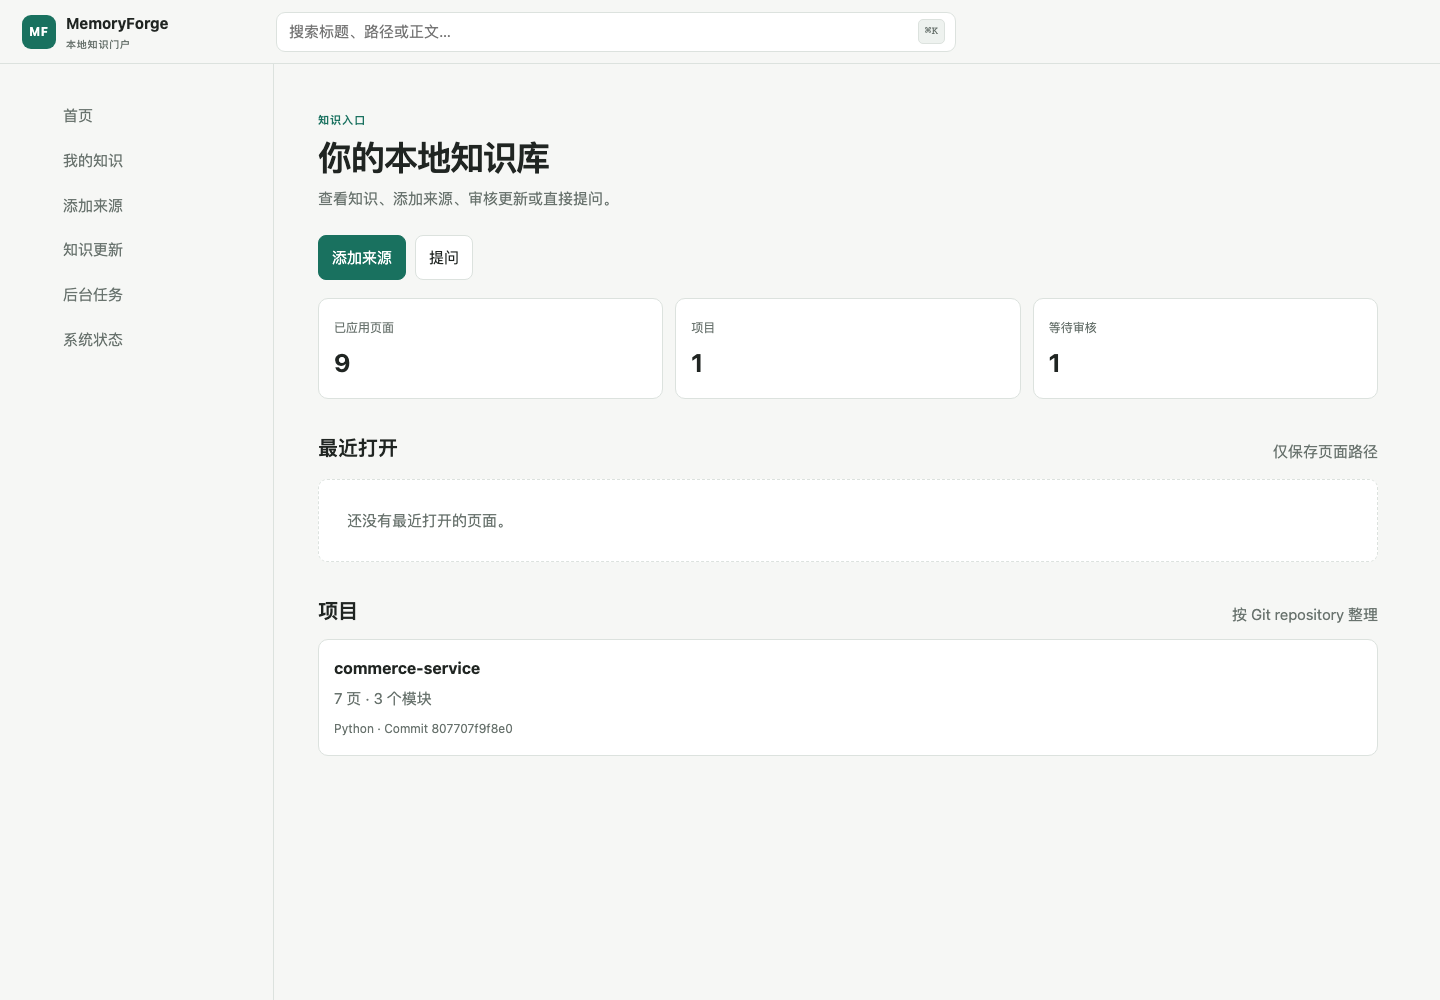
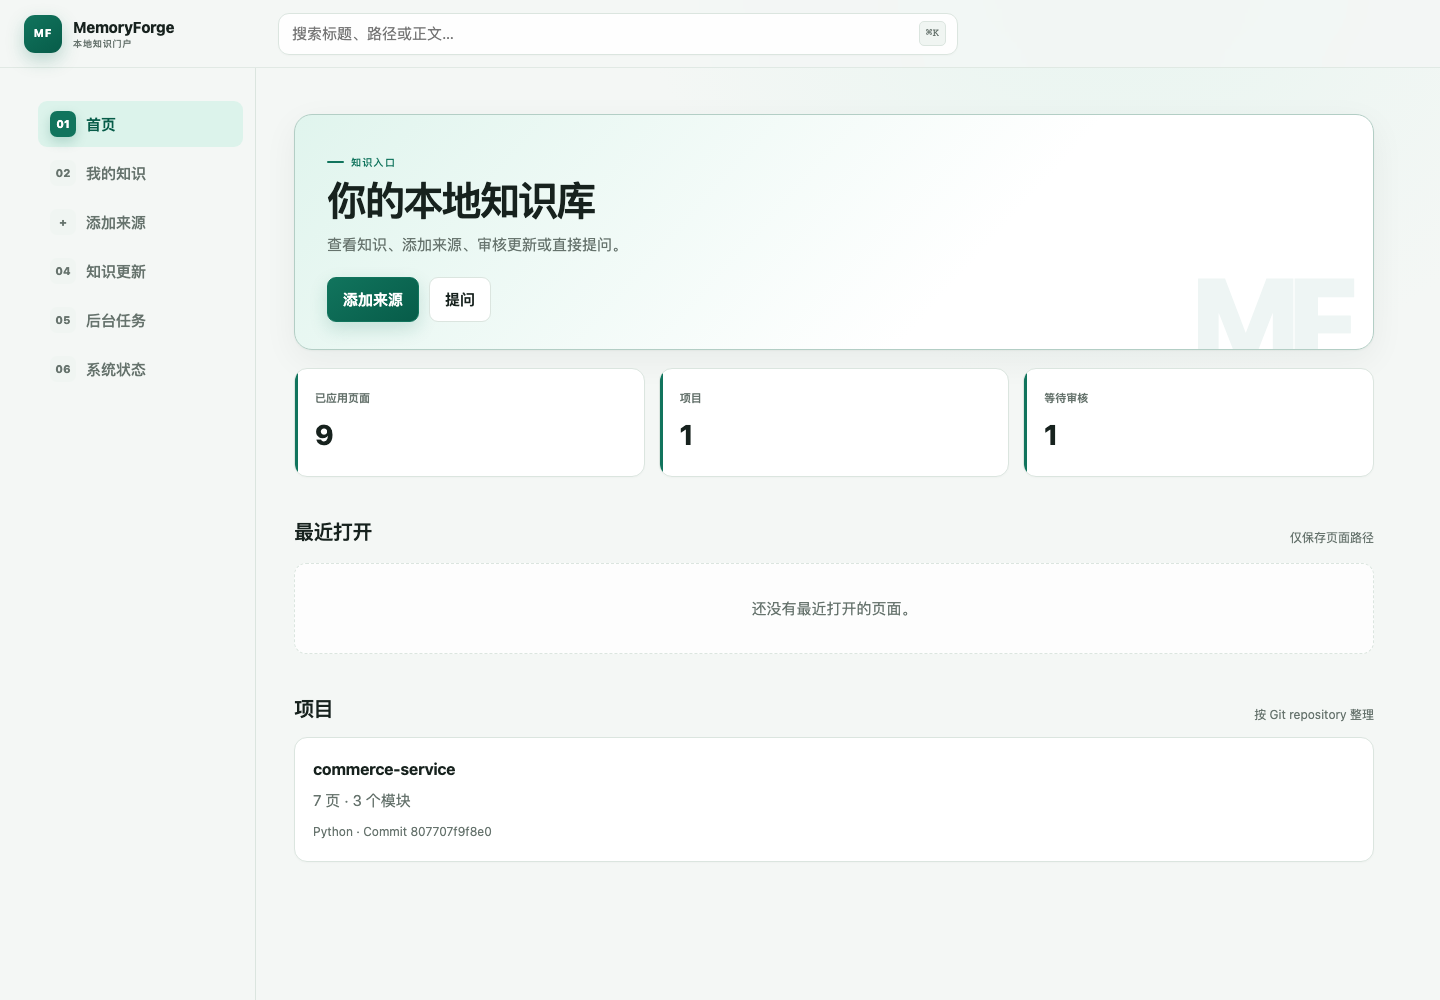
style: polish local knowledge portal

diff --git a/src/memoryforge/portal_assets.py b/src/memoryforge/portal_assets.py
@@ -38,49 +38,79 @@ INDEX_HTML = """<!doctype html>
 """
 
 APP_CSS = """
-:root{color-scheme:light;--bg:#f6f7f5;--panel:#fff;--soft:#eef2ef;--text:#202522;
---muted:#69736e;--line:#dce2de;--accent:#19715f;--accent-soft:#ddf2eb;--link:#315fbd;
---warn:#9a6700;--danger:#b42318;--code:#f3f5f4}
-@media(prefers-color-scheme:dark){:root{color-scheme:dark;--bg:#101311;--panel:#171b19;
---soft:#202622;--text:#e7ece9;--muted:#9aa59f;--line:#303833;--accent:#69cbb5;
---accent-soft:#183a32;--link:#9ab5ff;--warn:#e3b341;--danger:#ff9b92;--code:#0d100e}}
-*{box-sizing:border-box}[hidden]{display:none!important}html{scroll-behavior:smooth}body{margin:0;background:var(--bg);
-color:var(--text);font:15px/1.65 system-ui,-apple-system,BlinkMacSystemFont,"Segoe UI",sans-serif}
-button,input{font:inherit;color:inherit}a{color:var(--link)}button{cursor:pointer}
+:root{color-scheme:light;--bg:#f4f7f5;--panel:#fff;--soft:#f0f5f2;--text:#17221e;
+--muted:#66736d;--line:#dbe5df;--accent:#11745d;--accent-strong:#075c49;
+--accent-soft:#dcf3eb;--link:#2457a7;--warn:#956200;--danger:#b42318;--code:#f2f5f3;
+--shadow:0 1px 2px rgba(18,42,33,.04),0 10px 34px rgba(18,42,33,.055);
+--shadow-hover:0 2px 5px rgba(18,42,33,.06),0 18px 42px rgba(18,42,33,.1)}
+@media(prefers-color-scheme:dark){:root{color-scheme:dark;--bg:#0d1210;--panel:#151b18;
+--soft:#1c2621;--text:#e9f0ec;--muted:#9ba9a2;--line:#2c3933;--accent:#6bd0b5;
+--accent-strong:#8cdec8;--accent-soft:#163c31;--link:#9cbcff;--warn:#e3b341;
+--danger:#ff9b92;--code:#0b100e;--shadow:0 12px 34px rgba(0,0,0,.18);
+--shadow-hover:0 20px 48px rgba(0,0,0,.28)}}
+*{box-sizing:border-box}[hidden]{display:none!important}html{scroll-behavior:smooth}body{margin:0;
+background:radial-gradient(circle at 78% -10%,color-mix(in srgb,var(--accent-soft) 55%,transparent),transparent 31rem),var(--bg);
+color:var(--text);font:15px/1.65 system-ui,-apple-system,BlinkMacSystemFont,"Segoe UI",sans-serif;
+font-synthesis:none}button,input,select,textarea{font:inherit;color:inherit}a{color:var(--link)}
+button{cursor:pointer}a,button,input,select,textarea{transition:border-color .16s ease,box-shadow .16s ease,
+background-color .16s ease,color .16s ease,transform .16s ease}
 .sr-only{position:absolute;width:1px;height:1px;padding:0;margin:-1px;overflow:hidden;
 clip:rect(0,0,0,0);white-space:nowrap;border:0}
 .topbar{position:sticky;top:0;z-index:20;display:grid;grid-template-columns:230px minmax(260px,680px) auto;
-align-items:center;gap:24px;min-height:64px;padding:9px 22px;background:color-mix(in srgb,var(--bg) 91%,transparent);
-border-bottom:1px solid var(--line);backdrop-filter:blur(16px)}
-.brand{display:flex;align-items:center;gap:10px;color:var(--text);font-weight:700;text-decoration:none}
-.brand-mark{display:grid;width:34px;height:34px;place-items:center;color:#fff;background:var(--accent);
-border-radius:9px;font-size:12px;letter-spacing:.06em}.brand small{display:block;color:var(--muted);
-font-size:10px;font-weight:500;letter-spacing:.08em;text-transform:uppercase}
-.search{display:flex;align-items:center;height:40px;padding:0 10px;background:var(--panel);
-border:1px solid var(--line);border-radius:9px}.search:focus-within{border-color:var(--accent)}
+align-items:center;gap:24px;min-height:68px;padding:10px 24px;background:color-mix(in srgb,var(--bg) 82%,transparent);
+border-bottom:1px solid color-mix(in srgb,var(--line) 78%,transparent);backdrop-filter:blur(20px) saturate(1.25)}
+.brand{display:flex;align-items:center;gap:11px;color:var(--text);font-weight:760;text-decoration:none;
+letter-spacing:-.015em}.brand-mark{display:grid;width:38px;height:38px;place-items:center;color:#fff;
+background:linear-gradient(145deg,var(--accent),var(--accent-strong));border-radius:11px;font-size:11px;
+letter-spacing:.08em;box-shadow:0 7px 18px color-mix(in srgb,var(--accent) 25%,transparent)}
+.brand small{display:block;margin-top:-2px;color:var(--muted);font-size:9px;font-weight:650;
+letter-spacing:.1em;text-transform:uppercase}
+.search{display:flex;align-items:center;height:42px;padding:0 11px;background:color-mix(in srgb,var(--panel) 92%,transparent);
+border:1px solid var(--line);border-radius:11px;box-shadow:0 1px 2px rgba(0,0,0,.025)}
+.search:focus-within{border-color:var(--accent);box-shadow:0 0 0 3px color-mix(in srgb,var(--accent) 14%,transparent)}
 .search input{flex:1;min-width:0;background:transparent;border:0;outline:0}
 kbd{padding:2px 6px;color:var(--muted);background:var(--soft);border:1px solid var(--line);
 border-radius:5px;font-size:11px}.tool{display:none;padding:7px 10px;background:var(--panel);
 border:1px solid var(--line);border-radius:8px}
-.shell{display:grid;grid-template-columns:230px minmax(0,1060px);gap:44px;max-width:1400px;margin:auto;padding:0 24px}
-.primary-nav{position:sticky;top:64px;align-self:start;height:calc(100vh - 64px);padding:28px 8px;
-border-right:1px solid var(--line)}.primary-nav a{display:block;margin:2px 0;padding:9px 11px;
-color:var(--muted);border-radius:7px;text-decoration:none}.primary-nav a:hover,.primary-nav a:focus-visible{
-color:var(--accent);background:var(--accent-soft);outline:0}
-#app{min-width:0;padding:42px 0 80px;outline:0}.page-head{margin-bottom:25px}.eyebrow{color:var(--accent);
-font-size:11px;font-weight:700;letter-spacing:.1em}.page-head h1{margin:6px 0 8px;font-size:34px;
-line-height:1.2;letter-spacing:-.03em}.page-head p{max-width:760px;margin:0;color:var(--muted)}
-.grid{display:grid;grid-template-columns:repeat(auto-fit,minmax(210px,1fr));gap:12px}
-.card{min-width:0;padding:15px;background:var(--panel);border:1px solid var(--line);border-radius:10px}
-a.card{display:block;color:var(--text);text-decoration:none}a.card:hover{border-color:var(--accent);
-box-shadow:0 7px 22px color-mix(in srgb,var(--text) 8%,transparent)}.card h2,.card h3{margin:0 0 5px;
-font-size:16px}.card p{margin:4px 0;color:var(--muted)}.metric{display:block;margin-top:3px;
-font-size:25px;font-weight:650}.meta{color:var(--muted);font-size:12px}.section{margin-top:32px}
+.shell{display:grid;grid-template-columns:218px minmax(0,1080px);gap:38px;max-width:1420px;margin:auto;padding:0 28px}
+.primary-nav{position:sticky;top:68px;align-self:start;height:calc(100vh - 68px);padding:30px 12px 28px 0;
+border-right:1px solid var(--line)}.primary-nav a{display:flex;align-items:center;gap:10px;margin:3px 0;
+padding:10px 12px;color:var(--muted);border-radius:9px;text-decoration:none;font-weight:570}
+.primary-nav a::before{display:grid;width:24px;height:24px;place-items:center;color:var(--muted);
+background:var(--soft);border:1px solid transparent;border-radius:7px;font-size:11px;font-weight:800}
+.primary-nav a[href="#home"]::before{content:"01"}.primary-nav a[href="#knowledge"]::before{content:"02"}
+.primary-nav a[href="#add-source"]::before{content:"+"}.primary-nav a[href="#updates"]::before{content:"04"}
+.primary-nav a[href="#jobs"]::before{content:"05"}.primary-nav a[href="#system"]::before{content:"06"}
+.primary-nav a:hover,.primary-nav a:focus-visible{color:var(--accent);background:var(--accent-soft);outline:0}
+.primary-nav a[aria-current=page]{color:var(--accent-strong);background:var(--accent-soft);font-weight:720}
+.primary-nav a[aria-current=page]::before{color:#fff;background:var(--accent);box-shadow:0 5px 12px color-mix(in srgb,var(--accent) 22%,transparent)}
+#app{min-width:0;padding:46px 0 88px;outline:0}.page-head{margin-bottom:28px}.eyebrow{display:inline-flex;
+align-items:center;gap:7px;color:var(--accent);font-size:10px;font-weight:800;letter-spacing:.13em;
+text-transform:uppercase}.eyebrow::before{content:"";width:17px;height:2px;background:var(--accent);border-radius:2px}
+.page-head h1{margin:7px 0 9px;font-size:36px;line-height:1.15;letter-spacing:-.045em}
+.page-head p{max-width:720px;margin:0;color:var(--muted);font-size:15px}
+.hero{position:relative;overflow:hidden;margin-bottom:18px;padding:30px 32px 27px;
+background:linear-gradient(132deg,color-mix(in srgb,var(--accent-soft) 88%,var(--panel)),var(--panel) 63%);
+border:1px solid color-mix(in srgb,var(--accent) 20%,var(--line));border-radius:18px;box-shadow:var(--shadow)}
+.hero::after{content:"MF";position:absolute;right:27px;bottom:-31px;color:color-mix(in srgb,var(--accent) 7%,transparent);
+font-size:122px;font-weight:900;letter-spacing:-.09em;line-height:1}.hero .page-head{position:relative;z-index:1;margin-bottom:20px}
+.hero .page-head h1{font-size:40px}.hero .actions-row{position:relative;z-index:1;margin:0}
+.grid{display:grid;grid-template-columns:repeat(auto-fit,minmax(210px,1fr));gap:14px}
+.card{min-width:0;padding:18px;background:color-mix(in srgb,var(--panel) 96%,transparent);
+border:1px solid var(--line);border-radius:13px;box-shadow:0 1px 2px rgba(18,42,33,.025)}
+a.card{display:block;color:var(--text);text-decoration:none}a.card:hover{border-color:color-mix(in srgb,var(--accent) 48%,var(--line));
+box-shadow:var(--shadow-hover);transform:translateY(-2px)}.card h2,.card h3{margin:0 0 6px;
+font-size:16px;letter-spacing:-.015em}.card p{margin:5px 0;color:var(--muted)}.metric-card{position:relative;
+overflow:hidden;padding:20px 20px 18px}.metric-card::before{content:"";position:absolute;inset:0 auto 0 0;
+width:3px;background:var(--accent)}.metric-label{display:block;color:var(--muted);font-size:11px;font-weight:650}
+.metric{display:block;margin-top:5px;font-size:28px;font-weight:760;letter-spacing:-.04em}
+.meta{color:var(--muted);font-size:12px}.section{margin-top:38px}
 .section-title{display:flex;align-items:end;justify-content:space-between;gap:18px;margin-bottom:12px}
-.section-title h2{margin:0;font-size:20px}.section-title p{margin:0;color:var(--muted)}
+.section-title h2{margin:0;font-size:20px;letter-spacing:-.025em}.section-title p{margin:0;color:var(--muted);font-size:12px}
 .warning{padding:12px 14px;color:var(--warn);background:color-mix(in srgb,var(--warn) 10%,var(--panel));
-border:1px solid color-mix(in srgb,var(--warn) 30%,var(--line));border-radius:8px}
-.empty{padding:28px;color:var(--muted);background:var(--panel);border:1px dashed var(--line);border-radius:9px}
+border:1px solid color-mix(in srgb,var(--warn) 30%,var(--line));border-radius:10px}
+.empty{padding:32px;color:var(--muted);background:color-mix(in srgb,var(--panel) 80%,transparent);
+border:1px dashed var(--line);border-radius:12px;text-align:center}
 .badge{display:inline-flex;padding:3px 8px;color:var(--accent);background:var(--accent-soft);
 border-radius:999px;font-size:11px;font-weight:650}.badge.warn{color:var(--warn);
 background:color-mix(in srgb,var(--warn) 12%,var(--panel))}
@@ -103,35 +133,45 @@ border-radius:4px;font-size:.88em}code,pre{font-family:ui-monospace,SFMono-Regul
 color:var(--muted);font-size:11px;letter-spacing:.06em}.rail a{display:block;margin:6px 0;
 color:var(--muted);font-size:12px;line-height:1.4;text-decoration:none}.rail a:hover{color:var(--accent)}
 .rail .depth-3{padding-left:10px}details{margin-top:12px;background:var(--panel);
-border:1px solid var(--line);border-radius:8px}summary{padding:10px 12px;cursor:pointer}
-.detail-body{padding:0 12px 12px}.relation{display:block;margin:6px 0;padding:8px 9px;
+border:1px solid var(--line);border-radius:11px;box-shadow:0 1px 2px rgba(18,42,33,.025)}
+details[open]{border-color:color-mix(in srgb,var(--accent) 22%,var(--line));box-shadow:var(--shadow)}
+summary{padding:12px 14px;cursor:pointer;font-weight:620}summary:hover{color:var(--accent)}
+.detail-body{padding:0 14px 14px}.relation{display:block;margin:6px 0;padding:9px 10px;
 color:var(--text);background:var(--soft);border-radius:7px;text-decoration:none}.relation small{display:block;
 color:var(--muted)}.pagination{display:flex;gap:8px;margin-top:18px}.pagination button{padding:8px 12px;
 background:var(--panel);border:1px solid var(--line);border-radius:7px}.pagination button:disabled{opacity:.45;
 cursor:default}.source-row{display:grid;grid-template-columns:minmax(0,1fr) auto;gap:12px;align-items:center;
 padding:12px 0;border-bottom:1px solid var(--line)}.source-row:last-child{border:0}
-.actions-row{display:flex;flex-wrap:wrap;gap:9px;margin:18px 0}.button{display:inline-flex;
-align-items:center;justify-content:center;padding:9px 13px;color:var(--text);background:var(--panel);
-border:1px solid var(--line);border-radius:8px;text-decoration:none}.button.primary{color:#fff;
-background:var(--accent);border-color:var(--accent)}.button.danger{color:var(--danger);
-border-color:color-mix(in srgb,var(--danger) 40%,var(--line))}.button:disabled{opacity:.45}
-.form{display:grid;gap:12px;max-width:720px;padding:18px;background:var(--panel);
-border:1px solid var(--line);border-radius:10px}.form label{display:grid;gap:5px;font-weight:600}
-.form input,.form select,.form textarea{width:100%;padding:9px 10px;background:var(--bg);
-border:1px solid var(--line);border-radius:7px}.form textarea{min-height:90px;resize:vertical}
+.actions-row{display:flex;flex-wrap:wrap;gap:10px;margin:20px 0}.button{display:inline-flex;
+align-items:center;justify-content:center;padding:9px 15px;color:var(--text);background:var(--panel);
+border:1px solid var(--line);border-radius:9px;text-decoration:none;font-weight:650}
+.button:hover{border-color:var(--accent);background:var(--accent-soft);transform:translateY(-1px)}
+.button.primary{color:#fff;background:linear-gradient(145deg,var(--accent),var(--accent-strong));
+border-color:var(--accent);box-shadow:0 7px 18px color-mix(in srgb,var(--accent) 18%,transparent)}
+.button.primary:hover{color:#fff;background:var(--accent-strong)}.button.danger{color:var(--danger);
+border-color:color-mix(in srgb,var(--danger) 40%,var(--line))}.button:disabled{opacity:.45;transform:none}
+.form{display:grid;gap:15px;max-width:760px;padding:23px;background:var(--panel);
+border:1px solid var(--line);border-radius:14px;box-shadow:var(--shadow)}.form label{display:grid;gap:6px;
+font-size:13px;font-weight:650}.form input,.form select,.form textarea{width:100%;padding:10px 11px;
+background:var(--bg);border:1px solid var(--line);border-radius:9px;outline:0}
+.form input:focus,.form select:focus,.form textarea:focus{border-color:var(--accent);
+box-shadow:0 0 0 3px color-mix(in srgb,var(--accent) 13%,transparent)}
+.form textarea{min-height:100px;resize:vertical}
 .checkbox{display:flex!important;grid-template-columns:auto 1fr;align-items:center;font-weight:400!important}
 .checkbox input{width:auto}.job-progress{width:100%;height:8px;accent-color:var(--accent)}
 .diff{max-height:420px;padding:12px;background:var(--code);border:1px solid var(--line);
-border-radius:8px;overflow:auto;white-space:pre-wrap}.error{color:var(--danger)}
+border-radius:9px;overflow:auto;white-space:pre-wrap;line-height:1.55}.error{color:var(--danger)}
 .choice-list{display:grid;gap:8px}.choice{display:flex;justify-content:space-between;gap:12px;
-padding:10px;background:var(--soft);border:0;border-radius:7px;text-align:left}
+padding:11px;background:var(--soft);border:1px solid transparent;border-radius:8px;text-align:left}
+.choice:hover{border-color:var(--accent);background:var(--accent-soft)}
 @media(max-width:960px){.reader-layout{grid-template-columns:minmax(0,1fr)}.rail{position:static;
 max-height:none;order:2}.shell{gap:28px}}
 @media(max-width:720px){.topbar{grid-template-columns:auto minmax(0,1fr) auto;gap:9px;padding:8px 12px}
 .brand>span:last-child,kbd{display:none}.tool{display:block}.shell{display:block;padding:0 16px}
-.primary-nav{display:none}.nav-open .primary-nav{position:fixed;z-index:30;inset:64px 0 0;display:block;
+.primary-nav{display:none}.nav-open .primary-nav{position:fixed;z-index:30;inset:68px 0 0;display:block;
 width:100%;height:auto;padding:18px;background:var(--bg);border:0}.nav-open{overflow:hidden}
-#app{padding-top:28px}.page-head h1,.reader-title{font-size:29px}.grid{grid-template-columns:1fr}}
+#app{padding-top:28px}.page-head h1,.reader-title{font-size:29px}.hero{padding:23px 20px}
+.hero .page-head h1{font-size:31px}.grid{grid-template-columns:1fr}}
 """
 
 APP_JS = r"""
@@ -155,8 +195,8 @@ function element(tag,attrs={},children=[]){
   }
   return node
 }
-function heading(kicker,title,description){
-  return element("header",{class:"page-head"},[
+function heading(kicker,title,description,className=""){
+  return element("header",{class:"page-head "+className},[
     element("span",{class:"eyebrow",text:kicker}),
     element("h1",{text:title}),
     element("p",{text:description})
@@ -497,22 +537,37 @@ function show(nodes,focus=true){
   clearTimeout(jobTimer);
   app.replaceChildren(...(Array.isArray(nodes)?nodes:[nodes]));
   if(focus)app.focus({preventScroll:true});
+  updateNav();
   document.body.classList.remove("nav-open");
   menu.setAttribute("aria-expanded","false")
+}
+function updateNav(){
+  const hash=location.hash||"#home";
+  document.querySelectorAll("#primary-nav a").forEach(link=>{
+    const target=link.getAttribute("href")||"";
+    const active=target==="#home"?hash==="#home":
+      target==="#knowledge"?hash==="#knowledge"||hash.startsWith("#project=")||
+        hash.startsWith("#projects")||hash.startsWith("#sources=")||hash.startsWith("#page="):
+      target==="#updates"?hash==="#updates"||hash.startsWith("#update="):
+      target==="#jobs"?hash==="#jobs"||hash.startsWith("#job="):
+      hash===target;
+    if(active)link.setAttribute("aria-current","page");else link.removeAttribute("aria-current")
+  })
 }
 function fail(error){
   show(element("p",{class:"empty error",text:error?.message||"知识库暂时不可用。"}))
 }
 function metric(label,value,route){
   const content=[
-    element("span",{class:"meta",text:label}),
+    element("span",{class:"metric-label",text:label}),
     element("strong",{class:"metric",text:value})
   ];
-  return route?element("a",{class:"card",href:route},content):element("article",{class:"card"},content)
+  return route?element("a",{class:"card metric-card",href:route},content):
+    element("article",{class:"card metric-card"},content)
 }
 function pageCard(page){
   const meta=[page.kind,page.updated,page.status].filter(Boolean).join(" · ");
-  return element("a",{class:"card",href:"#page="+encodeURIComponent(page.path)},[
+  return element("a",{class:"card page-card",href:"#page="+encodeURIComponent(page.path)},[
     element("h3",{text:page.title}),
     element("p",{text:page.summary||"暂无摘要"}),
     element("small",{class:"meta",text:meta})
@@ -549,7 +604,7 @@ function recentGrid(){
   ))
 }
 function projectCard(project){
-  return element("a",{class:"card",href:"#project="+encodeURIComponent(project.repository_id)},[
+  return element("a",{class:"card project-card",href:"#project="+encodeURIComponent(project.repository_id)},[
     element("h3",{text:project.name}),
     element("p",{text:`${project.page_count} 页 · ${project.module_count} 个模块`}),
     element("small",{class:"meta",text:
@@ -585,12 +640,15 @@ async function renderHome(){
     summary.active_jobs?metric("运行中任务",summary.active_jobs,"#jobs"):null,
     summary.failed_jobs?metric("失败任务",summary.failed_jobs,"#jobs"):null
   ].filter(Boolean);
-  const nodes=[
+  const hero=element("section",{class:"hero"},[
     heading("知识入口","你的本地知识库","查看知识、添加来源、审核更新或直接提问。"),
     element("div",{class:"actions-row"},[
       element("a",{class:"button primary",href:"#add-source",text:"添加来源"}),
       element("a",{class:"button",href:"#ask",text:"提问"})
-    ]),
+    ])
+  ]);
+  const nodes=[
+    hero,
     element("div",{class:"grid"},metrics),
     section("最近打开","仅保存页面路径",recentGrid())
   ];
@@ -804,7 +862,7 @@ async function renderAddSource(){
 function jobCard(job){
   const status={queued:"等待",running:"运行中",waiting_review:"等待审核",
     completed:"完成",failed:"失败",cancelled:"已取消"}[job.status]||job.status;
-  return element("a",{class:"card",href:"#job="+encodeURIComponent(job.id)},[
+  return element("a",{class:"card job-card",href:"#job="+encodeURIComponent(job.id)},[
     element("h3",{text:job.name}),
     element("p",{text:`${status} · ${job.stage}`}),
     element("small",{class:"meta",text:job.message})
@@ -847,7 +905,7 @@ async function renderJob(id){
 }
 function updateCard(update){
   const counts=update.counts;
-  return element("a",{class:"card",href:"#update="+encodeURIComponent(update.id)},[
+  return element("a",{class:"card update-card",href:"#update="+encodeURIComponent(update.id)},[
     element("h3",{text:update.name}),
     element("p",{text:`新增 ${counts.create} · 修改 ${counts.update} · 删除 ${counts.delete}`}),
     element("small",{class:"meta",text:update.status})
@@ -863,7 +921,7 @@ async function renderUpdates(){
 }
 async function renderUpdate(id){
   const update=await api("/api/updates/"+encodeURIComponent(id));
-  const pages=update.pages.map(page=>element("details",{},[
+  const pages=update.pages.map(page=>element("details",{class:"update-page"},[
     element("summary",{text:`${page.action} · ${page.title}`}),
     element("div",{class:"detail-body"},[
       element("small",{class:"meta",text:`引用 ${page.citation_count} 条`}),

diff --git a/tests/test_local_portal.py b/tests/test_local_portal.py
@@ -113,6 +113,8 @@ def test_local_portal_index_shell_is_small_and_self_contained(tmp_path: Path) ->
     assert "setTimeout(()=>renderSearch(value),200)" in script
     assert "memoryforge-recent-pages" in script
     assert "body.innerHTML=data.html" in script
+    assert 'setAttribute("aria-current","page")' in script
+    assert 'class:"hero"' in script
 
 
 def test_local_portal_classifies_projects_sources_templates_and_relations(
